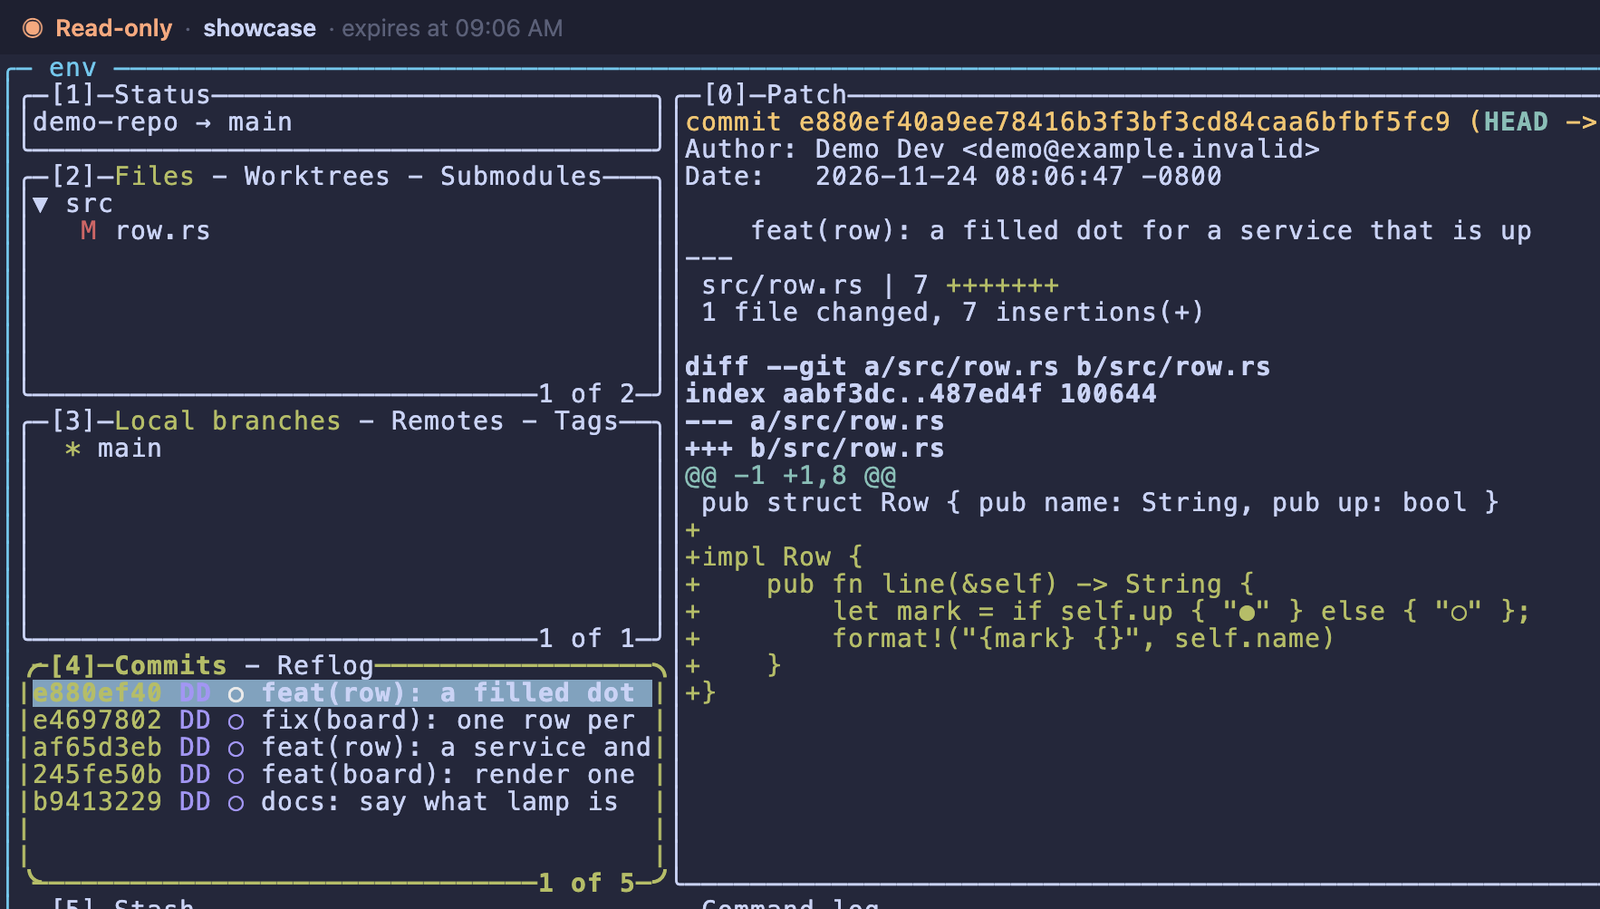
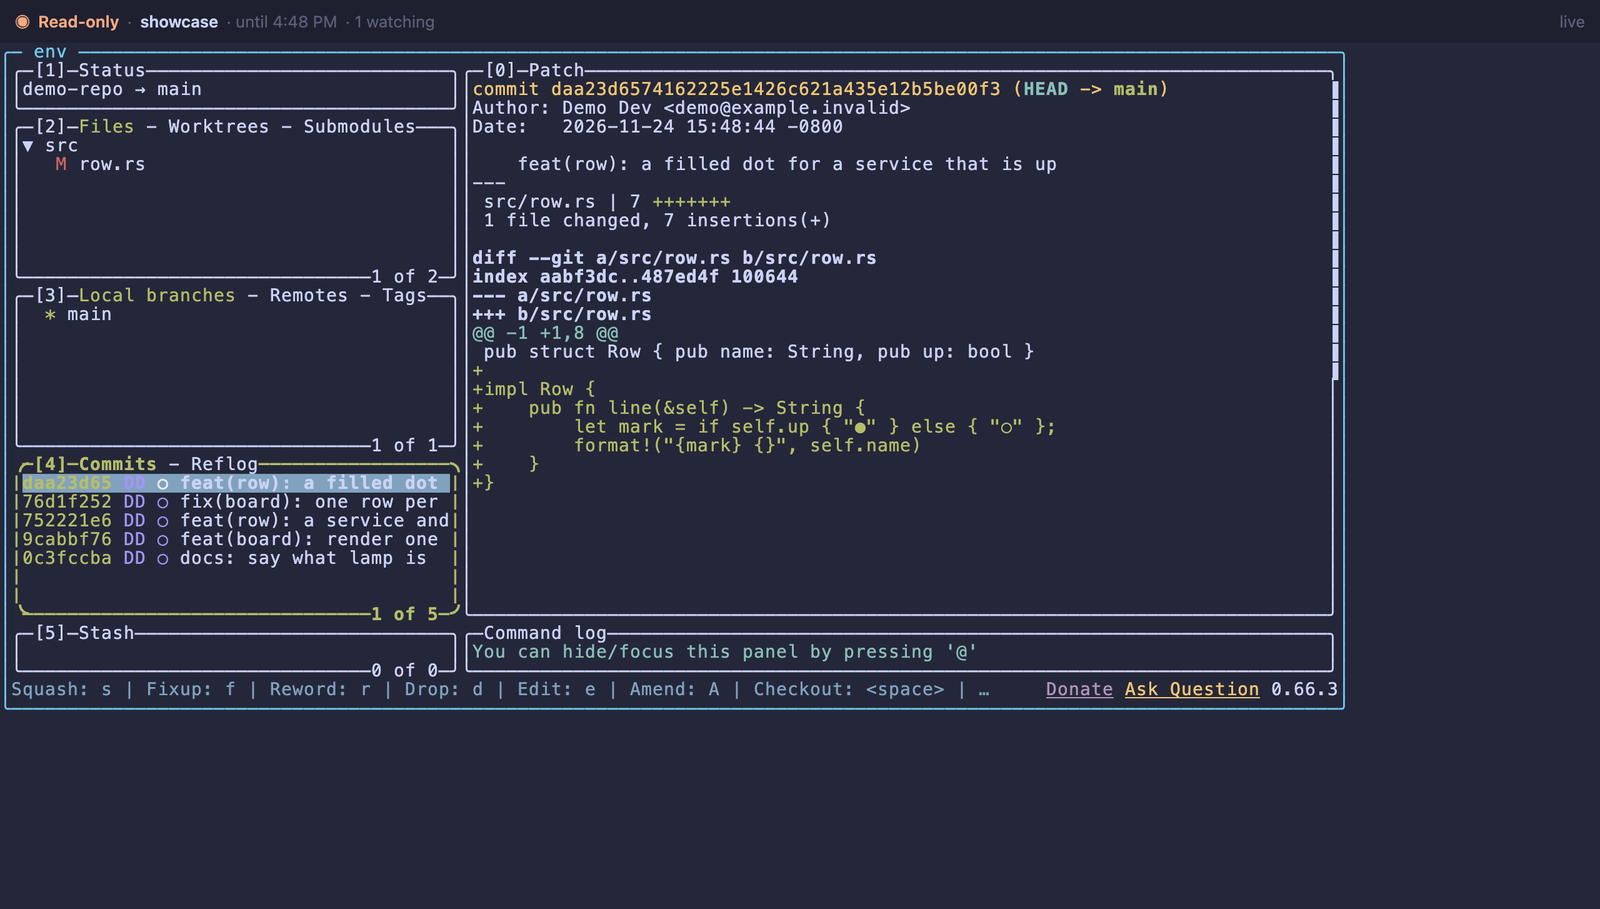
fix(share): stopping asks cloudflared to finish, and the landing shot shows the final bar
- `share stop` (and an idle teardown) killed cloudflared outright, so the
  frame telling a guest why could die inside it: over a real tunnel the
  guest saw "The connection to the session was lost." The supervisor now
  sends it SIGTERM with a 1 s grace period and waits up to 2 s before
  killing its group, as before. The guest sees "The owner stopped sharing."
- pages/screenshots/share-guest.png is recaptured over a real tunnel, with
  the final bar: "Read-only · showcase · until … · 1 watching · live".

Part of #297

diff --git a/pages/index.html b/pages/index.html
@@ -1209,7 +1209,7 @@ k3v9q2xa  review  until 15:04 · 0 left  <span class="ok">1 watching</span>
             <div class="pills"><span></span><span></span><span></span></div>
             <div class="addr">🔒 <b>brave-otter.trycloudflare.com</b>/v/k3v9q2xa</div>
           </div>
-          <img src="/screenshots/share-guest.png" alt="A guest's browser showing a shared shux session running lazygit, live, under a bar that reads Read-only and when the link expires" width="1600" height="909" loading="lazy" decoding="async">
+          <img src="/screenshots/share-guest.png" alt="A guest's browser showing a shared shux session running lazygit, live, under a bar that reads Read-only, until when, and how many are watching" width="1600" height="909" loading="lazy" decoding="async">
         </div>
         <figcaption><span class="dot"></span> a guest's browser, over a real quick tunnel: lazygit, live, read-only.</figcaption>
       </figure>

diff --git a/crates/shux/src/share/tunnel.rs b/crates/shux/src/share/tunnel.rs
@@ -39,6 +39,10 @@ const PROBE_ATTEMPT: Duration = Duration::from_secs(5);
 const PROBE_PAUSE: Duration = Duration::from_millis(750);
 /// How long a supervisor has to reap cloudflared once told to stop.
 const REAP: Duration = Duration::from_secs(10);
+/// How long cloudflared, asked to stop, may take to finish before it is
+/// killed; its own grace period is shorter.
+const DRAIN: Duration = Duration::from_secs(2);
+const _: () = assert!(DRAIN.as_secs() < REAP.as_secs());
 pub const PROBE_PATH: &str = "/.well-known/shux-probe";
 pub const INSTALL_HINT: &str = "install cloudflared (macOS: `brew install cloudflared`; \
     elsewhere: https://developers.cloudflare.com/cloudflare-one/connections/connect-networks/downloads/), \
@@ -264,7 +268,15 @@ pub fn supervise(cloudflared: &Path, port: u16) -> anyhow::Result<()> {
     let spawned = std::process::Command::new(cloudflared)
         .args(["tunnel", "--no-autoupdate", "--config"])
         .arg(&config)
-        .args(["--loglevel", "info", "--metrics", "127.0.0.1:0", "--url"])
+        .args([
+            "--loglevel",
+            "info",
+            "--metrics",
+            "127.0.0.1:0",
+            "--grace-period",
+            "1s",
+            "--url",
+        ])
         .arg(format!("http://127.0.0.1:{port}"))
         .env_clear()
         .env("HOME", home.path())
@@ -329,9 +341,21 @@ pub fn supervise(cloudflared: &Path, port: u16) -> anyhow::Result<()> {
             Ok(Msg::Stop) | Err(_) => break Exit::Stopped,
         }
     };
-    // Whatever it left behind in its group goes with it.
+    // Asked to stop, it gets DRAIN to deliver what it carries (the frame
+    // telling a guest why the share ended); then, and whatever it left
+    // behind in its group, it is killed.
+    let mut reaped = false;
+    if why == Exit::Stopped {
+        let _ = nix::sys::signal::kill(
+            nix::unistd::Pid::from_raw(group),
+            nix::sys::signal::Signal::SIGTERM,
+        );
+        reaped = done_rx.recv_timeout(DRAIN).is_ok();
+    }
     kill_group(group);
-    let _ = done_rx.recv();
+    if !reaped {
+        let _ = done_rx.recv();
+    }
     kill_group(group);
     report(Report::Exit(why));
     drop(listener);

diff --git a/crates/shux/tests/share_cli.rs b/crates/shux/tests/share_cli.rs
@@ -53,6 +53,11 @@ fn stand_in(dir: &Path, host: &str, needle: &str, mode: &str) -> PathBuf {
         let then = match mode {
             // Stops logging and keeps running: only its pid says it is alive.
             "closes-stderr" => format!("exec 2>&-\nexec /bin/sleep {needle}\n"),
+            // Says, as it goes, whether it was asked to stop before it was killed.
+            "drains" => format!(
+                "trap \"echo term > '{}'; exit 0\" TERM\nwhile :; do /bin/sleep {needle} & wait $!; done\n",
+                dir.join("cloudflared.term").display()
+            ),
             // Leaves a child in its group, then exits.
             "forks-then-exits" => format!(
                 "/bin/sleep {needle}1 &\necho $! > '{}'\nexit 0\n",
@@ -384,6 +389,24 @@ fn stop_ends_every_link_and_a_new_link_needs_a_new_tunnel() {
     assert_ne!(t1.cloudflared, t2.cloudflared, "a fresh connector");
     assert_ne!(first["id"], second["id"]);
     assert_eq!(h.links().len(), 1, "the old links stayed ended");
+}
+
+/// Stop asks cloudflared to finish before killing it, so the frame that tells
+/// a guest why can still leave it.
+#[test]
+fn stop_asks_cloudflared_to_finish_before_killing_it() {
+    let h = Harness::with_mode("drains");
+    h.session("demo");
+    h.json(&["share", "-s", "demo"]);
+    let t = h.tunnel();
+    h.json(&["share", "stop"]);
+    wait_until("the supervisor to exit", || {
+        !running(t.supervisor, &format!("--port {}", t.port))
+    });
+    assert!(
+        h.fake.path().join("cloudflared.term").exists(),
+        "cloudflared was killed without being asked to stop"
+    );
 }
 
 #[test]
